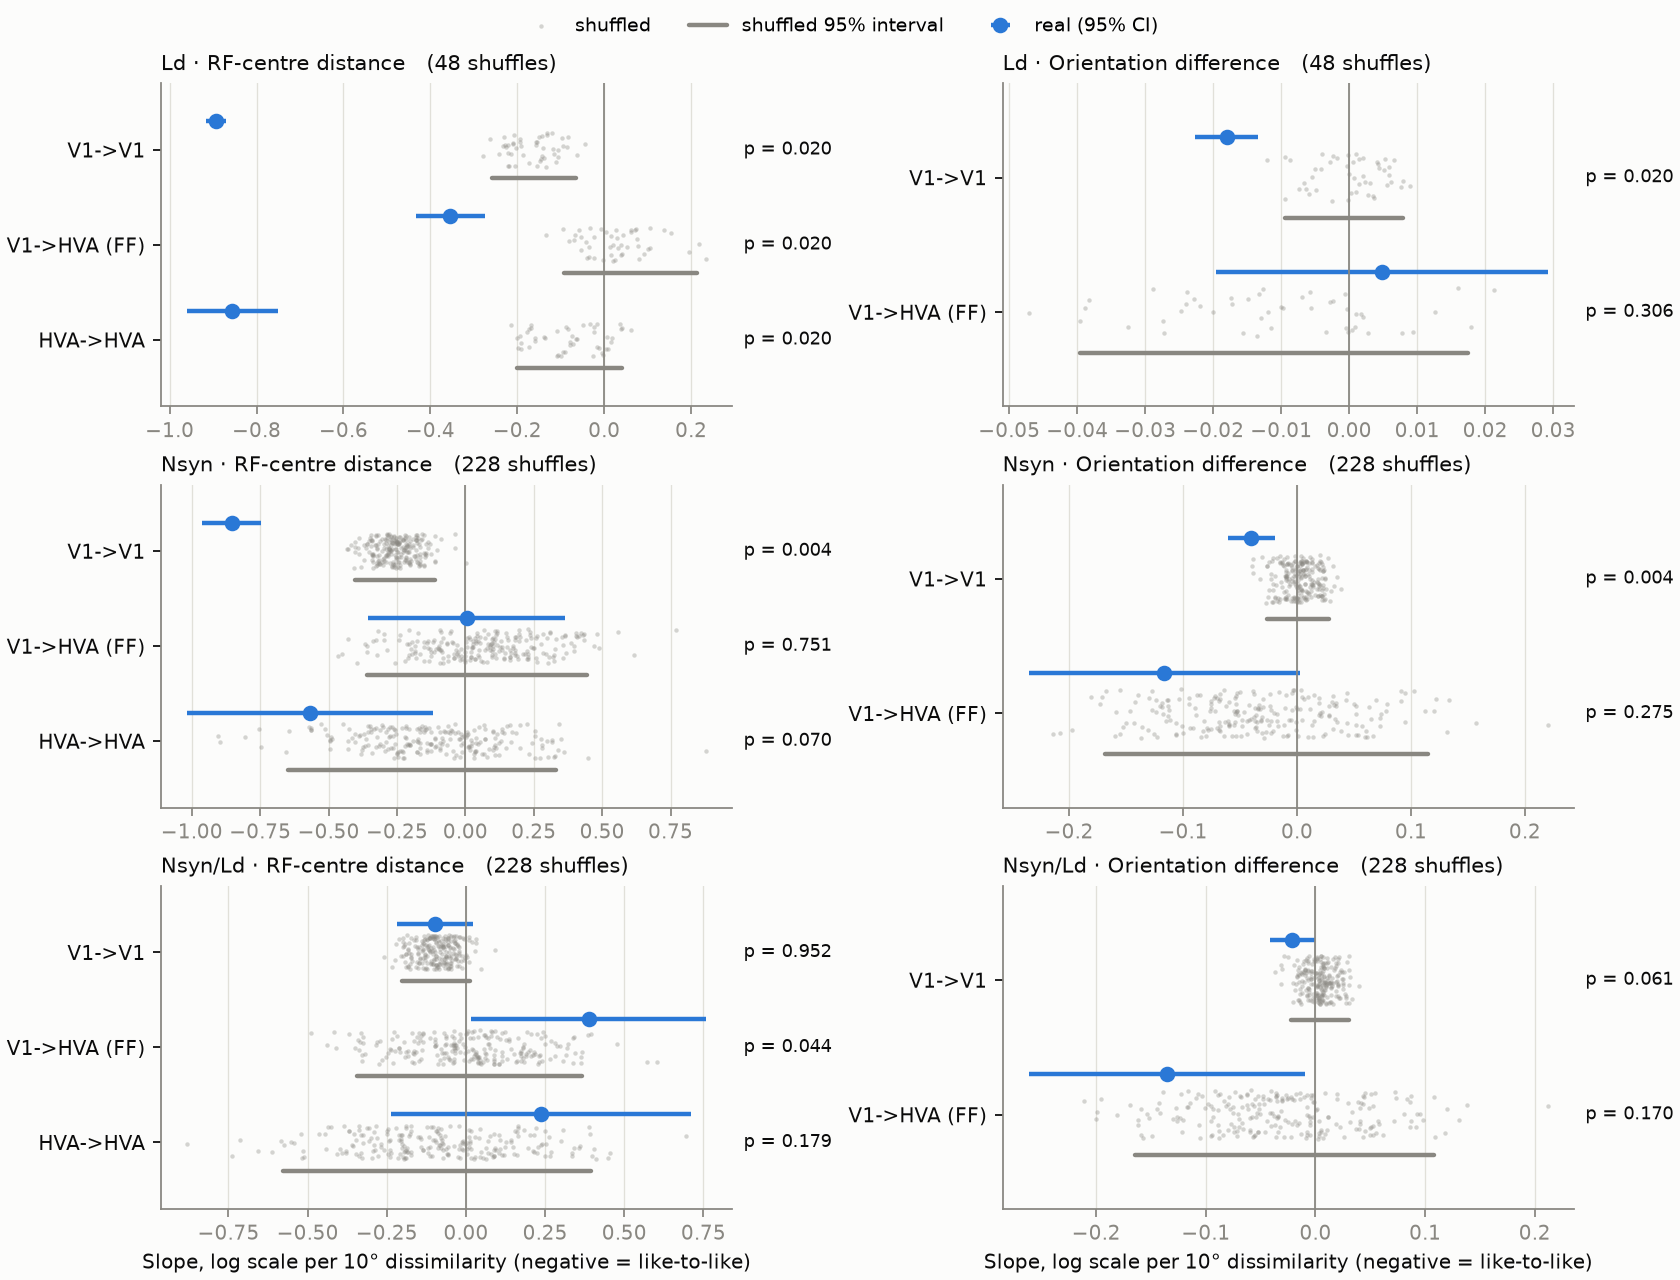
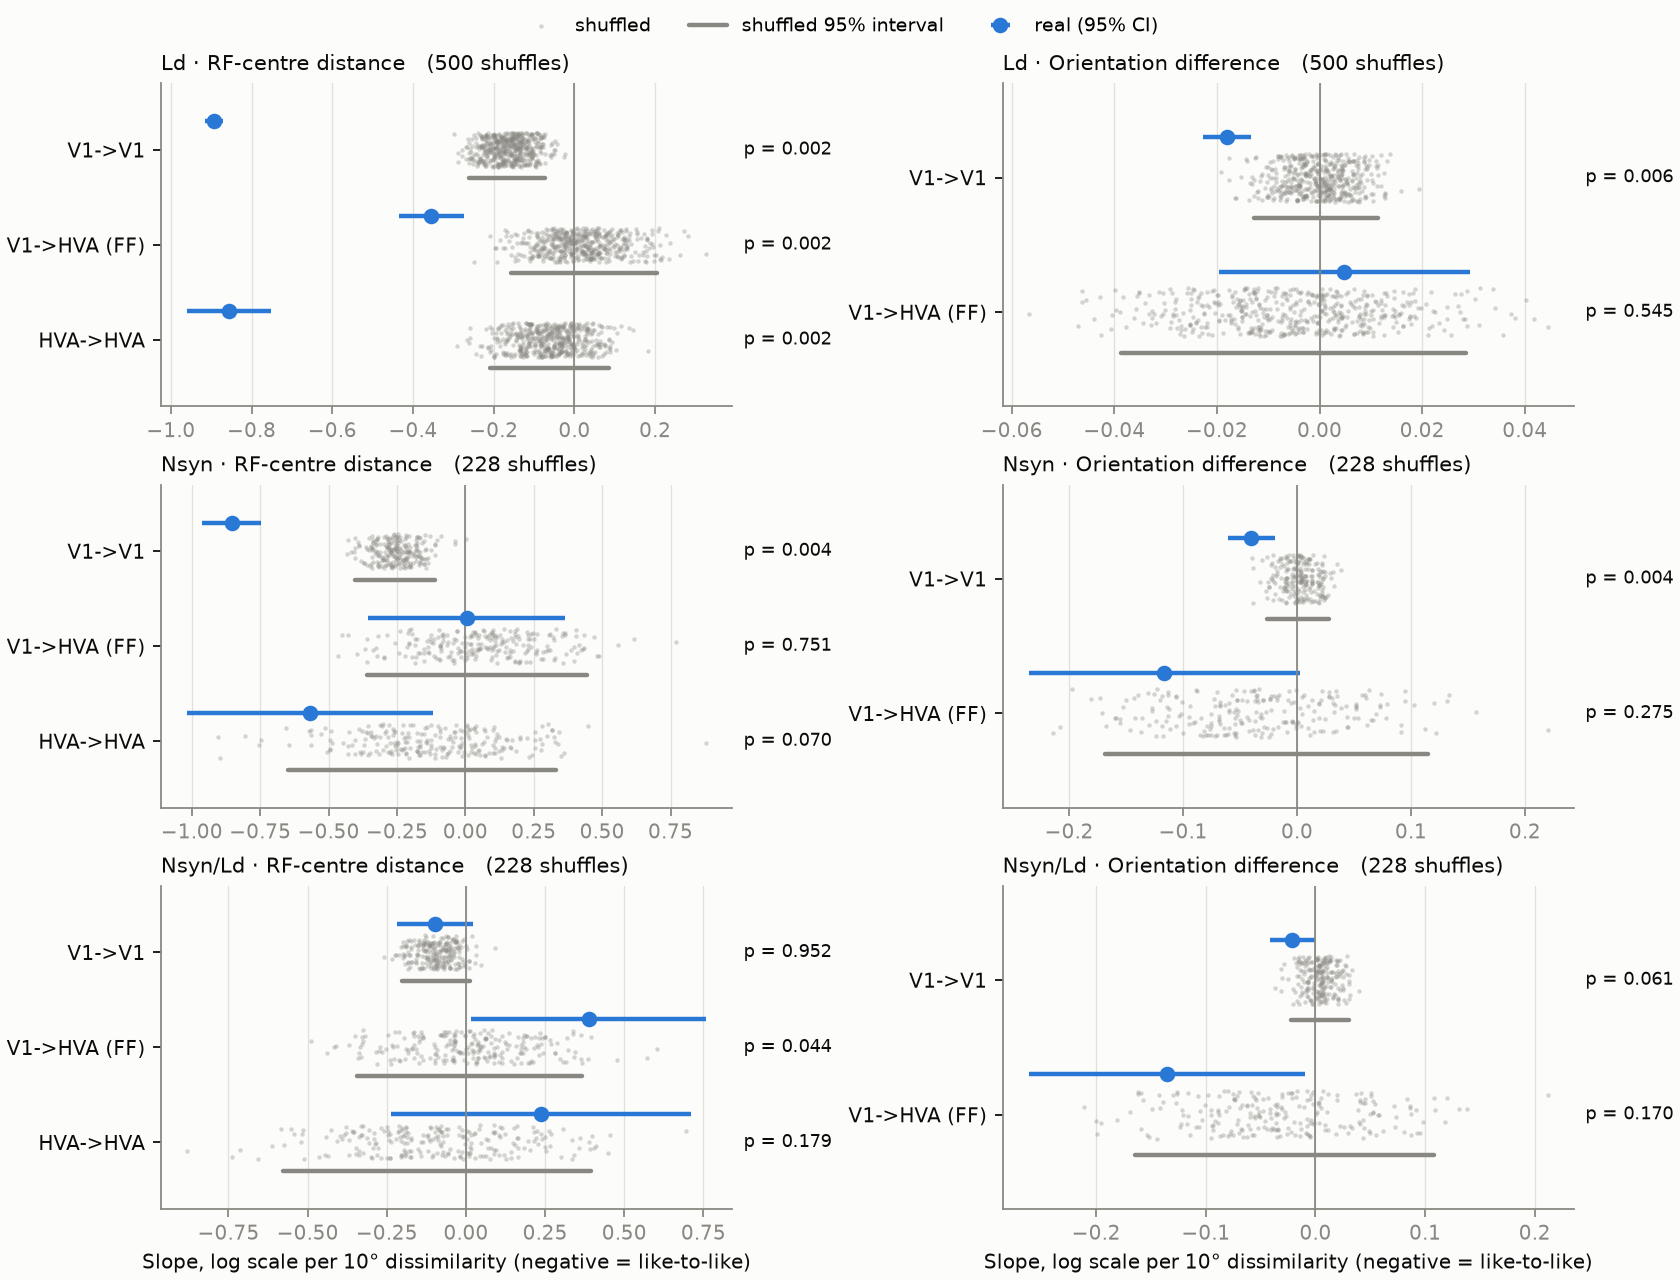
session 6: main Ld models to 500 shuffles
Overnight run (like_to_like.R perm main tweedie 500 240 4, 126 min,
all fits converged). Ld like-to-like slopes unchanged; permutation p now
0.002 (RF distance, all projection types) and 0.006 (orientation V1->V1).
Also corrects the permuted-fit count in 06_results.md.

diff --git a/notebooks/06_results.md b/notebooks/06_results.md
@@ -13,7 +13,7 @@ Run 2026-09-28 at v1822.
 - Figure: `figures/06_like_to_like.png` (main variant)
 - Raw fits and permutations: `data/like_to_like/` (not committed)
 
-**Runtime:** real fits took 2.7 min (18 variant × similarity × model combinations). The permutations took 75 min.
+**Runtime:** real fits took 2.7 min (18 variant × similarity × model combinations). The permutations took 75 min, plus a 126-min overnight run (4 workers) that took the main Ld models from 48 to 500 shuffles.
 
 ## Data
 
@@ -63,29 +63,29 @@ The three Ding et al. 2025 GLMMs, fitted with glmmTMB 1.1.14:
 
 - **What is shuffled:** postsynaptic functional properties (readout location, pref_ori and gOSI together) are permuted among all 694 usable neurons within cell type × area, and the models are refitted. Presynaptic properties stay real.
 - **p vs shuffle:** two-sided, centred on the shuffled mean: (1 + #{|null − mean| ≥ |real − mean|}) / (N + 1).
-- **Convergence:** all 1,236 permuted fits converged.
+- **Convergence:** all 3,128 permuted fits converged.
 
 **Number of permutations (target 1,000):**
 
 | variant | Nsyn and Nsyn/Ld models | Ld models (Tweedie) |
 |---|---:|---:|
-| main | 228 | 48 |
+| main | 228 | 500 |
 | + soma distance | 96 | 20 |
 | extended dendrites only | 180 | 36 |
 
-**Why not 1,000:** each Tweedie Ld fit over 126k pairs takes about 30 s and peaks at 1.7 GB. On this 8 GB machine, with an unrelated 4 GB virtualization process running, only 2 of those fit at once. The Poisson models ran on 6 workers.
+**Why not 1,000:** each Tweedie Ld fit over 126k pairs takes about 30 s and peaks at 1.7 GB. On this 8 GB machine, with an unrelated 4 GB virtualization process running, only 2 of those fit at once. The Poisson models ran on 6 workers. The main Ld models were extended to 500 in a separate overnight run (`like_to_like.R perm main tweedie 500 240 4`, 126 min) once the virtualization process was gone.
 
-**Consequence:** the smallest attainable p is 1/49 = 0.020 for the main Ld models and 1/21 = 0.048 for the soma-distance Ld models. For all of those models, "p = 0.020" or "0.048" means the real slope lay outside every shuffle.
+**Consequence:** the smallest attainable p is 1/501 = 0.002 for the main Ld models, 1/229 = 0.004 for the main Poisson models, and 1/21 = 0.048 and 1/37 = 0.027 for the soma-distance and extended-dendrite Ld models. A p at the floor means the real slope lay outside every shuffle.
 
 ## Main results (193 fully extended axons)
 
 | model | similarity | projection | real slope [95% CI] | shuffled mean [95% interval] | p vs shuffle | n perms |
 |---|---|---|---|---|---:|---:|
-| Ld | RF distance | V1→V1 | −0.894 [−0.917, −0.871] | −0.165 [−0.259, −0.065] | 0.020 | 48 |
-| Ld | RF distance | V1→HVA (FF) | −0.354 [−0.434, −0.275] | +0.029 [−0.092, +0.214] | 0.020 | 48 |
-| Ld | RF distance | HVA→HVA | −0.856 [−0.960, −0.751] | −0.080 [−0.200, +0.040] | 0.020 | 48 |
-| Ld | orientation | V1→V1 | −0.018 [−0.023, −0.013] | +0.000 [−0.009, +0.008] | 0.020 | 48 |
-| Ld | orientation | V1→HVA (FF) | +0.005 [−0.020, +0.029] | −0.011 [−0.040, +0.018] | 0.306 | 48 |
+| Ld | RF distance | V1→V1 | −0.894 [−0.917, −0.871] | −0.164 [−0.260, −0.072] | 0.002 | 500 |
+| Ld | RF distance | V1→HVA (FF) | −0.354 [−0.434, −0.275] | +0.015 [−0.158, +0.205] | 0.002 | 500 |
+| Ld | RF distance | HVA→HVA | −0.856 [−0.960, −0.751] | −0.060 [−0.210, +0.086] | 0.002 | 500 |
+| Ld | orientation | V1→V1 | −0.018 [−0.023, −0.013] | −0.000 [−0.013, +0.011] | 0.006 | 500 |
+| Ld | orientation | V1→HVA (FF) | +0.005 [−0.020, +0.029] | −0.005 [−0.039, +0.029] | 0.545 | 500 |
 | Nsyn | RF distance | V1→V1 | −0.855 [−0.964, −0.746] | −0.252 [−0.402, −0.110] | 0.004 | 228 |
 | Nsyn | RF distance | V1→HVA (FF) | +0.004 [−0.357, +0.366] | +0.066 [−0.358, +0.445] | 0.751 | 228 |
 | Nsyn | RF distance | HVA→HVA | −0.568 [−1.018, −0.118] | −0.120 [−0.647, +0.332] | 0.070 | 228 |
@@ -99,16 +99,16 @@ The three Ding et al. 2025 GLMMs, fitted with glmmTMB 1.1.14:
 
 ## Interpretation
 
-1. **The shuffled null is not centred on zero for RF distance.** In V1→V1 the shuffled slopes average −0.165 (Ld), −0.252 (Nsyn) and −0.094 (Nsyn/Ld).
+1. **The shuffled null is not centred on zero for RF distance.** In V1→V1 the shuffled slopes average −0.164 (Ld), −0.252 (Nsyn) and −0.094 (Nsyn/Ld).
    - Shuffling within cell type × area keeps each group's RF distribution. Different cell types and layers were imaged in different scans, whose RF centres sit in different places, and connection rates differ between groups. That creates an RF–connectivity association *between* groups, which this shuffle preserves.
    - This is exactly why the real slope must be judged against the shuffle, not against zero. Where the Wald CI excludes 0 but the shuffle p is large, the real slope isn't beyond this null.
 2. **RF location is like-to-like at the axonal scale, but not beyond the shuffle at the synaptic scale (V1→V1).**
-   - Ld and Nsyn fall far more steeply with RF distance than any shuffle: −0.89 vs −0.17 for Ld, and −0.86 vs −0.25 for Nsyn.
+   - Ld and Nsyn fall far more steeply with RF distance than any shuffle: −0.89 vs −0.16 for Ld (beyond all 500 shuffles), and −0.86 vs −0.25 for Nsyn (beyond all 228).
    - Synapses per unit Ld (−0.096) is indistinguishable from the shuffle (−0.094, p = 0.95).
    - Neurons with nearby RFs have more axon–dendrite proximity, and hence more synapses. Given the proximity, they are not converted to synapses at a higher rate.
    - The same holds for Ld in V1→HVA and HVA→HVA.
 3. **Orientation is like-to-like in V1→V1 at every scale, weakest at the synaptic scale.**
-   - Ld: −0.018 per 10°, beyond all 48 shuffles.
+   - Ld: −0.018 per 10°, p = 0.006 (2 of 500 shuffles as extreme).
    - Nsyn: −0.040, p = 0.004.
    - Nsyn/Ld: −0.021, p = 0.061. Adding soma distance gives p = 0.041, and extended dendrites only gives p = 0.083.
    - Per 10° of orientation difference, synapse count falls by about 4% (e^−0.040). Across the full 90° range that is about a 30% fall.
@@ -127,7 +127,7 @@ The three Ding et al. 2025 GLMMs, fitted with glmmTMB 1.1.14:
 
 ## Caveats
 
-- **Permutation counts are low** for the Ld models (48 / 20 / 36), so their p-values sit at the floor. To go further: run `scripts/run_like_to_like_perms.sh` again (it resumes), or run it on a machine with more memory.
+- **Permutation counts are below 1,000.** The main Ld models have 500 and the main Poisson models 228. The sensitivity Ld models have only 20 and 36, so their p-values sit at the floor. To go further, rerun `like_to_like.R perm <variant> <track> <n> <min> <workers>`; it resumes. Four workers ran well once the virtualization process was gone.
 - **p-values are not corrected** for the 15 main-variant tests.
 - **Wald CIs understate uncertainty** relative to the permutation null, because the null's spread is set by the structure in the population, not only by sampling noise.
 - **The reference set is fully extended axons only.** The Session 5 finding that partially extended 23P axons are radially truncated therefore doesn't bias these results. It matters if partially extended axons are added later.

diff --git a/notebooks/06_like_to_like_table.md b/notebooks/06_like_to_like_table.md
@@ -6,11 +6,11 @@ Slopes are on the log (link) scale per 10 deg of dissimilarity (negative = like-
 
 | model                       | similarity             | proj         | real slope [95% CI]     | shuffled mean [95% interval]   |   p vs shuffle |   n perms |   n_pairs |
 |:----------------------------|:-----------------------|:-------------|:------------------------|:-------------------------------|---------------:|----------:|----------:|
-| Ld (Tweedie)                | RF-centre distance     | V1->V1       | -0.894 [-0.917, -0.871] | -0.165 [-0.259, -0.065]        |          0.02  |        48 |    126021 |
-| Ld (Tweedie)                | RF-centre distance     | V1->HVA (FF) | -0.354 [-0.434, -0.275] | +0.029 [-0.092, +0.214]        |          0.02  |        48 |    126021 |
-| Ld (Tweedie)                | RF-centre distance     | HVA->HVA     | -0.856 [-0.960, -0.751] | -0.080 [-0.200, +0.040]        |          0.02  |        48 |    126021 |
-| Ld (Tweedie)                | Orientation difference | V1->V1       | -0.018 [-0.023, -0.013] | +0.000 [-0.009, +0.008]        |          0.02  |        48 |     35552 |
-| Ld (Tweedie)                | Orientation difference | V1->HVA (FF) | +0.005 [-0.020, +0.029] | -0.011 [-0.040, +0.018]        |          0.306 |        48 |     35552 |
+| Ld (Tweedie)                | RF-centre distance     | V1->V1       | -0.894 [-0.917, -0.871] | -0.164 [-0.260, -0.072]        |          0.002 |       500 |    126021 |
+| Ld (Tweedie)                | RF-centre distance     | V1->HVA (FF) | -0.354 [-0.434, -0.275] | +0.015 [-0.158, +0.205]        |          0.002 |       500 |    126021 |
+| Ld (Tweedie)                | RF-centre distance     | HVA->HVA     | -0.856 [-0.960, -0.751] | -0.060 [-0.210, +0.086]        |          0.002 |       500 |    126021 |
+| Ld (Tweedie)                | Orientation difference | V1->V1       | -0.018 [-0.023, -0.013] | -0.000 [-0.013, +0.011]        |          0.006 |       500 |     35552 |
+| Ld (Tweedie)                | Orientation difference | V1->HVA (FF) | +0.005 [-0.020, +0.029] | -0.005 [-0.039, +0.029]        |          0.545 |       500 |     35552 |
 | Nsyn (Poisson)              | RF-centre distance     | V1->V1       | -0.855 [-0.964, -0.746] | -0.252 [-0.402, -0.110]        |          0.004 |       228 |    126021 |
 | Nsyn (Poisson)              | RF-centre distance     | V1->HVA (FF) | +0.004 [-0.357, +0.366] | +0.066 [-0.358, +0.445]        |          0.751 |       228 |    126021 |
 | Nsyn (Poisson)              | RF-centre distance     | HVA->HVA     | -0.568 [-1.018, -0.118] | -0.120 [-0.647, +0.332]        |          0.07  |       228 |    126021 |
@@ -69,10 +69,10 @@ Slopes are on the log (link) scale per 10 deg of dissimilarity (negative = like-
 | ('ext_dend', 'rf_dist_deg', 'Ld')       |    36 |        0 |
 | ('ext_dend', 'rf_dist_deg', 'Nsyn')     |   180 |        0 |
 | ('ext_dend', 'rf_dist_deg', 'density')  |   180 |        0 |
-| ('main', 'ori_diff_deg', 'Ld')          |    48 |        0 |
+| ('main', 'ori_diff_deg', 'Ld')          |   500 |        0 |
 | ('main', 'ori_diff_deg', 'Nsyn')        |   228 |        0 |
 | ('main', 'ori_diff_deg', 'density')     |   228 |        0 |
-| ('main', 'rf_dist_deg', 'Ld')           |    48 |        0 |
+| ('main', 'rf_dist_deg', 'Ld')           |   500 |        0 |
 | ('main', 'rf_dist_deg', 'Nsyn')         |   228 |        0 |
 | ('main', 'rf_dist_deg', 'density')      |   228 |        0 |
 | ('soma', 'ori_diff_deg', 'Ld')          |    20 |        0 |
